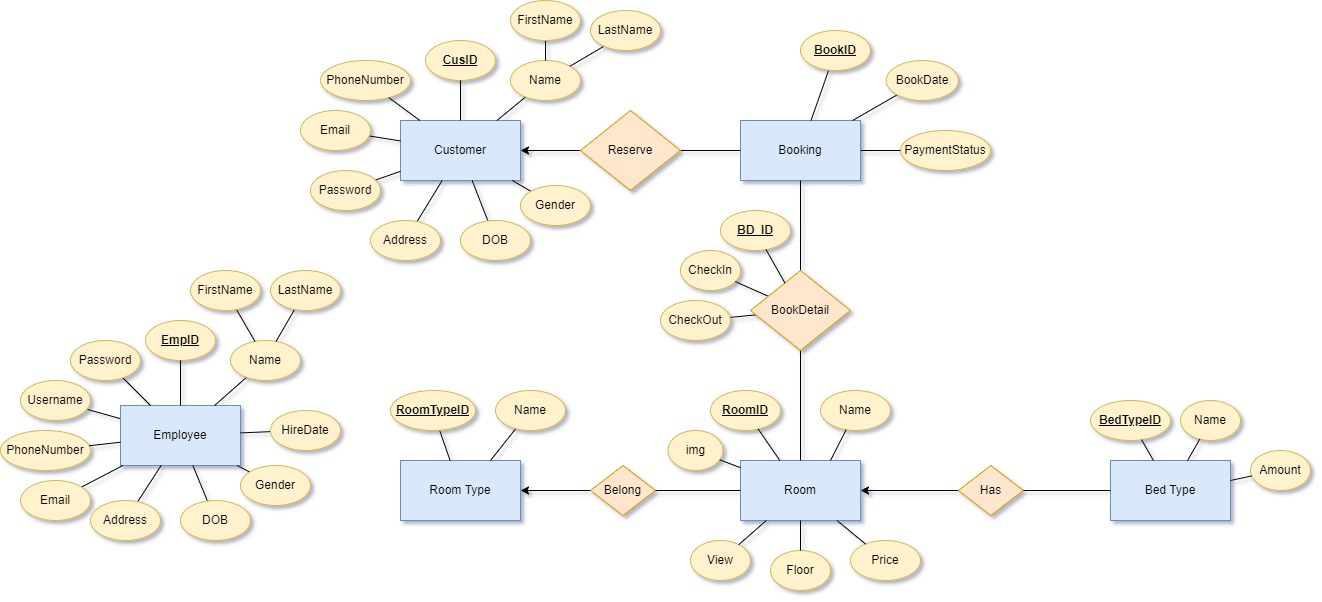
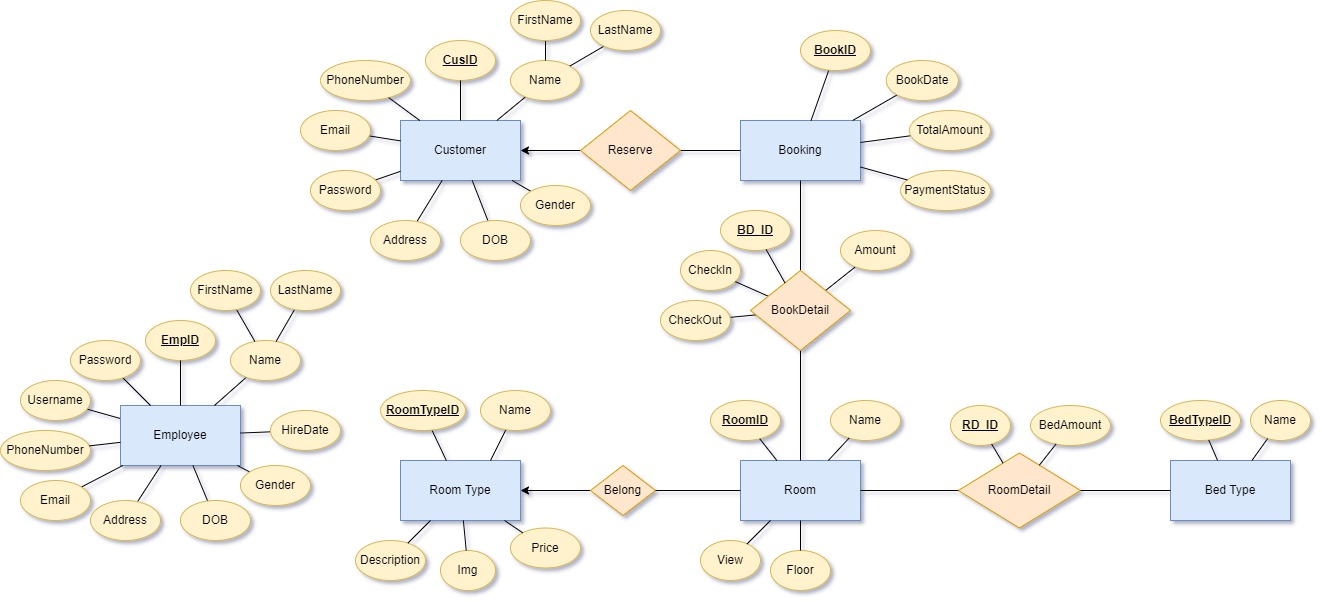
Minor changes to db #8, Checking for availabilty of Room in progress...(20%)
Gathering ideas for checking for availabilty of Room, change nav-bar UI for register, login and manage account.

diff --git a/src/java/Controller/ControllerCustomer.java b/src/java/Controller/ControllerCustomer.java
@@ -135,9 +135,9 @@ public class ControllerCustomer extends HttpServlet {
                 }
                 if (service.equals("editDOB")) {
                     String dob = request.getParameter("DOB");
-//                    out.print(dob);
-                    editSuccess = daoCus.editDOB(dob, cus.getCusID());
-                    forwardAndDisplayResult(editSuccess, request, response);
+                    out.print(dob);
+//                    editSuccess = daoCus.editDOB(dob, cus.getCusID());
+//                    forwardAndDisplayResult(editSuccess, request, response);
                 }
                 if (service.equals("editAddress")) {
                     String address = request.getParameter("Address");

diff --git a/src/java/Model/DAORoomType.java b/src/java/Model/DAORoomType.java
@@ -1,0 +1,14 @@
+/*
+ * To change this license header, choose License Headers in Project Properties.
+ * To change this template file, choose Tools | Templates
+ * and open the template in the editor.
+ */
+package Model;
+
+/**
+ *
+ * @author DELL
+ */
+public class DAORoomType {
+    
+}

diff --git a/src/java/Model/DAOBedType.java b/src/java/Model/DAOBedType.java
@@ -1,0 +1,14 @@
+/*
+ * To change this license header, choose License Headers in Project Properties.
+ * To change this template file, choose Tools | Templates
+ * and open the template in the editor.
+ */
+package Model;
+
+/**
+ *
+ * @author DELL
+ */
+public class DAOBedType {
+    
+}

diff --git a/src/java/Entity/BedType.java b/src/java/Entity/BedType.java
@@ -1,0 +1,14 @@
+/*
+ * To change this license header, choose License Headers in Project Properties.
+ * To change this template file, choose Tools | Templates
+ * and open the template in the editor.
+ */
+package Entity;
+
+/**
+ *
+ * @author DELL
+ */
+public class BedType {
+    
+}

diff --git a/src/java/Model/DAORoom.java b/src/java/Model/DAORoom.java
@@ -1,0 +1,14 @@
+/*
+ * To change this license header, choose License Headers in Project Properties.
+ * To change this template file, choose Tools | Templates
+ * and open the template in the editor.
+ */
+package Model;
+
+/**
+ *
+ * @author DELL
+ */
+public class DAORoom {
+    
+}
